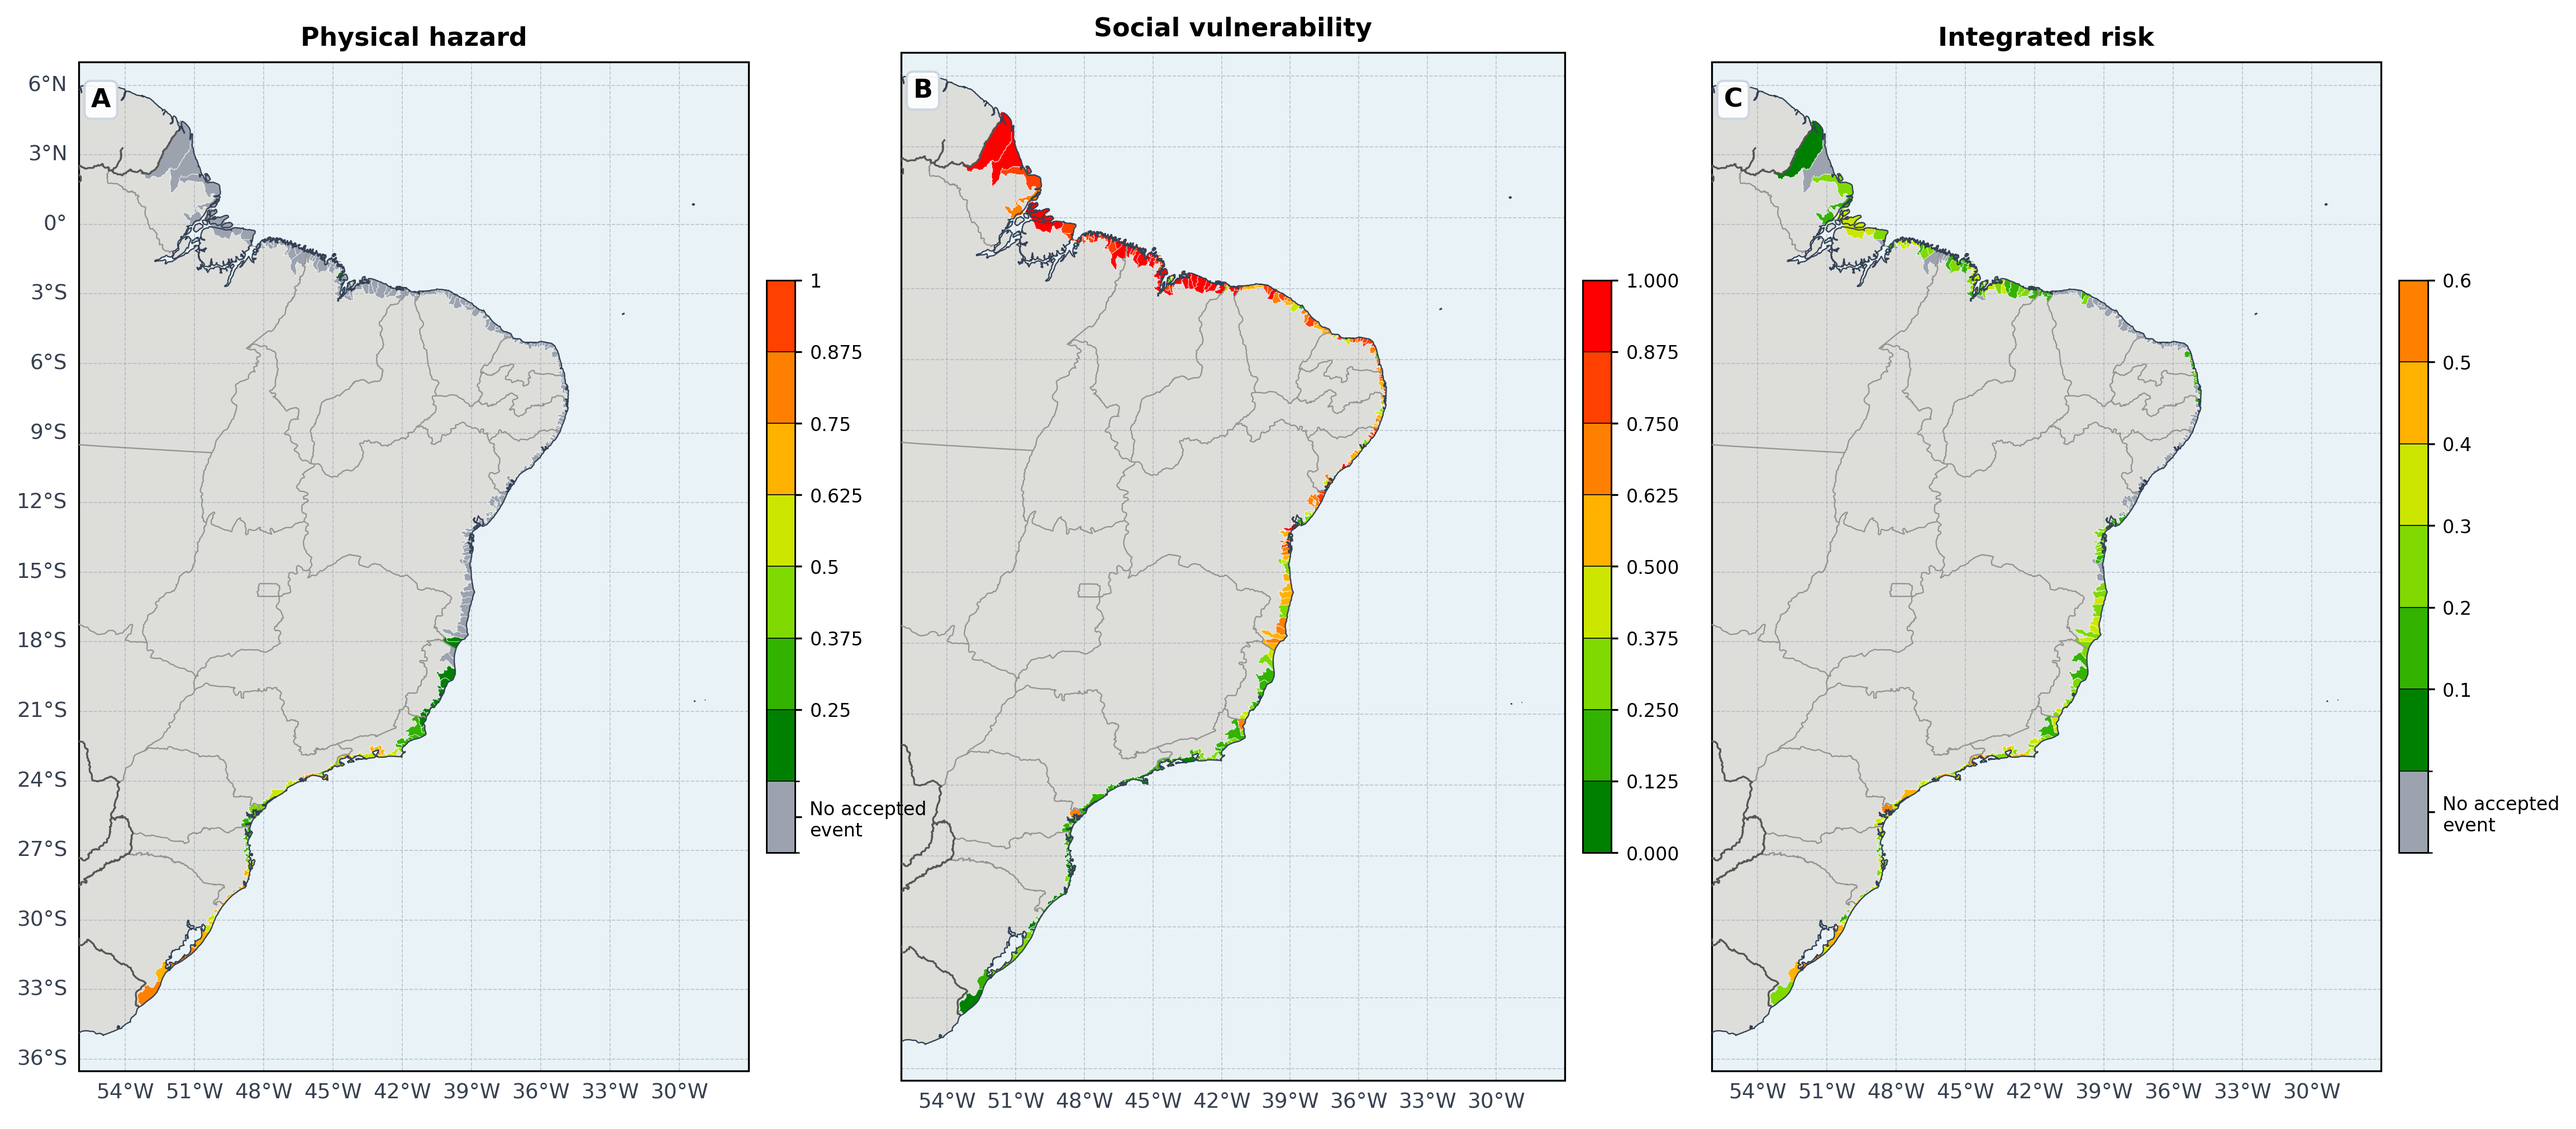
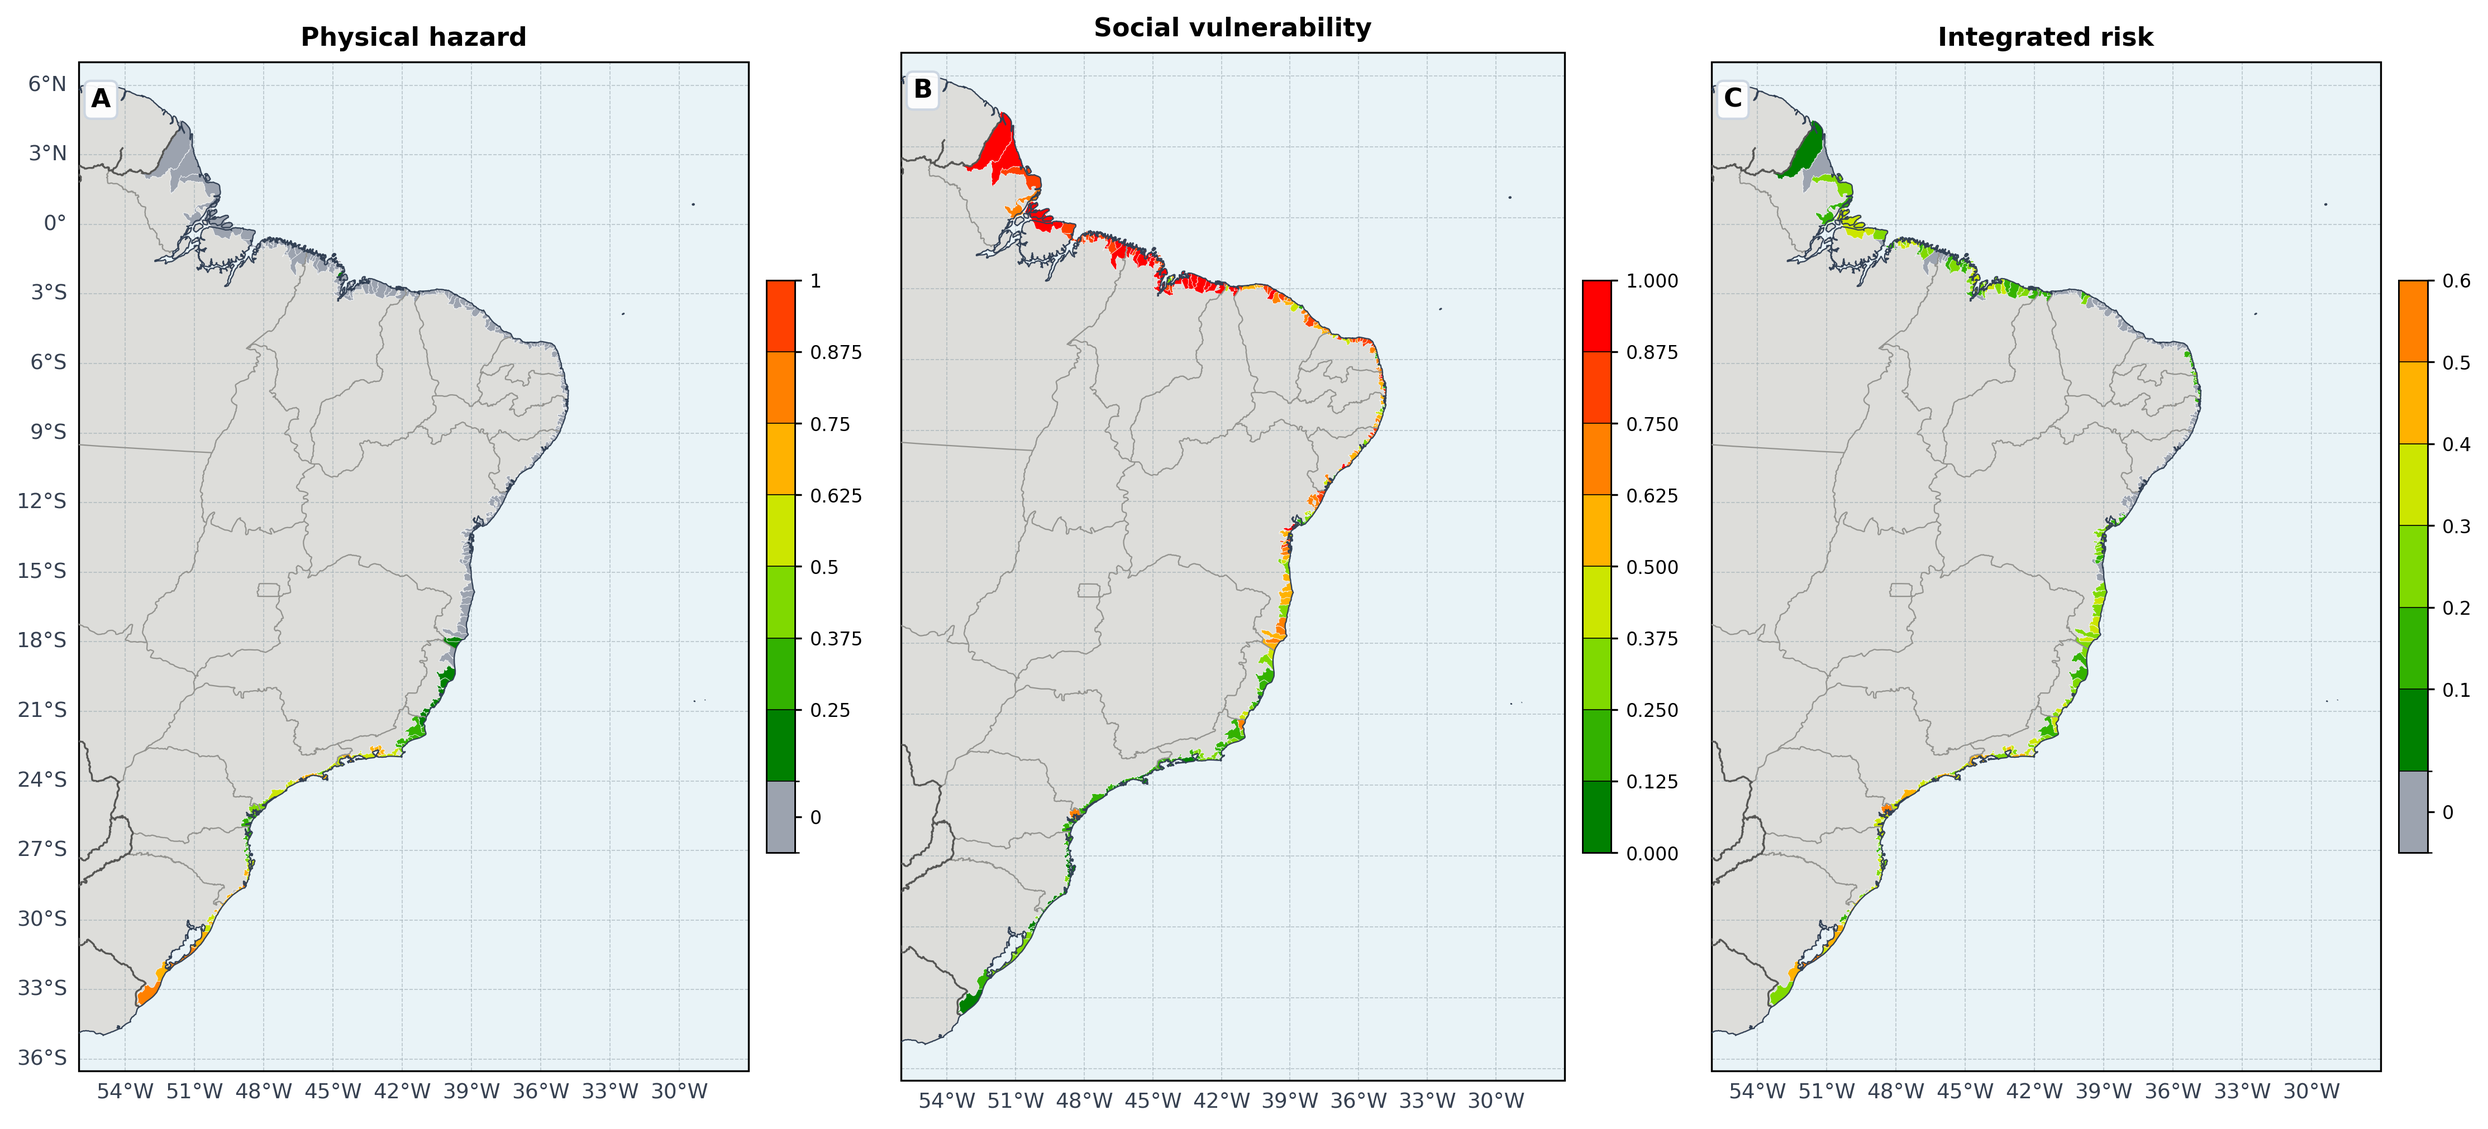
figures: label exact-zero classes numerically

diff --git a/src/figures_article/make_article_coastal_hazard_components_map.py b/src/figures_article/make_article_coastal_hazard_components_map.py
@@ -410,7 +410,7 @@ def _add_colorbar(
     if zero_is_gray:
         labels = [label.get_text() for label in colorbar.ax.get_xticklabels()]
         if labels:
-            labels[0] = "No accepted\nevent"
+            labels[0] = "0"
             colorbar.ax.set_xticklabels(labels)
             colorbar.ax.get_xticklabels()[0].set_fontsize(7)
     tick_labels = colorbar.ax.get_xticklabels()

diff --git a/src/figures_article/make_article_hazard_vulnerability_risk_multiplot.py b/src/figures_article/make_article_hazard_vulnerability_risk_multiplot.py
@@ -167,7 +167,7 @@ def _plot_panel(
     )
     colorbar.ax.tick_params(labelsize=8, length=2.8)
     if zero_is_gray:
-        colorbar.ax.set_yticklabels(["No accepted\nevent", *[f"{v:g}" for v in boundaries[2:]]])
+        colorbar.ax.set_yticklabels(["0", *[f"{v:g}" for v in boundaries[2:]]])
     colorbar.outline.set_linewidth(0.7)
     return {
         "key": key,
